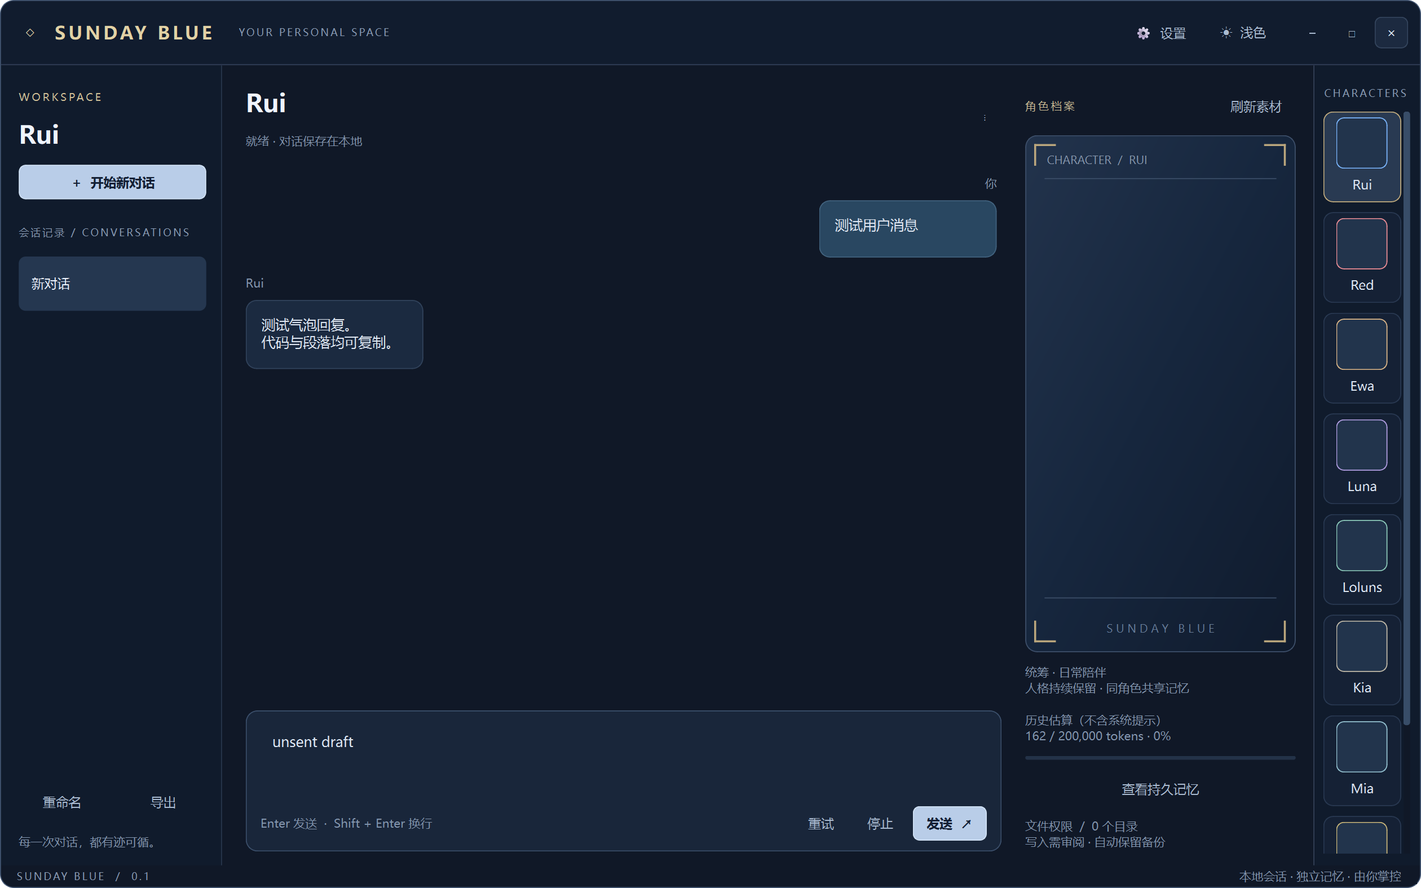
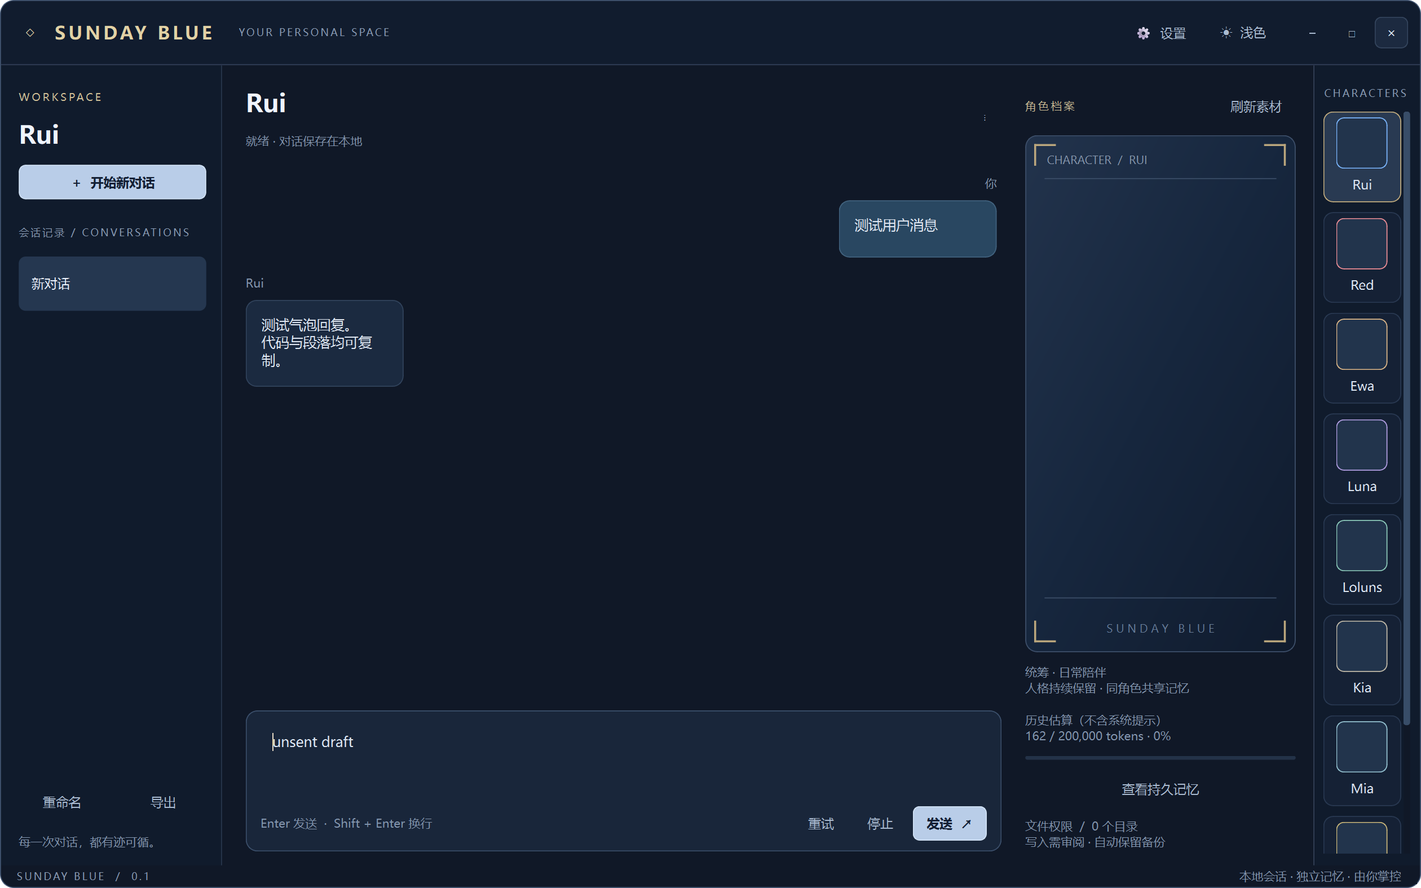
文件夹工具（创建/删除/移动）+ 4 项 UI 修复：IME 占位符、主题即时换色、气泡动态宽度
- files.py：create_directory / delete_directory（审阅列出将删清单）/ move（同卷、目标已存在拒绝）+ FILE_SCHEMAS
- agent.py：三个新工具的调度
- ui.py Composer：QInputMethodEvent 下占位符在拼音组词期间临时隐藏，Enter/Space 让给 IME
- ui.py toggle_theme：主题翻转后立即 render() 重建气泡
- ui.py Bubble：宽度随对话区（_chat_width）动态计算，短回复更窄，窗口 resize 时 re-wrap
- 测试 26 passed；README/ARCHITECTURE 同步；新建 需用户确认讨论内容.md（主人不用读）

Changed region(s): [[0.1548, 0.3422, 0.3095, 0.4356], [0.5571, 0.2178, 0.65, 0.3111]]

diff --git a/sunday_blue/ui.py b/sunday_blue/ui.py
@@ -36,10 +36,35 @@ class TitleBar(QFrame):
 
 class Composer(QPlainTextEdit):
     send = Signal()
+    def __init__(self, parent=None):
+        super().__init__(parent)
+        self._composing=False; self.clearing=False; self._placeholder=''
+        self.textChanged.connect(self._sync_placeholder)
+    def _sync_placeholder(self,*args):
+        # While an IME (pinyin) candidate is still pending, the real text is empty and the
+        # built-in placeholder would sit under the composing text, so hide it; any actual
+        # commit or deletion re-evaluates visibility.
+        if self.clearing:return
+        self.clearing=True
+        try:
+            super(Composer,self).setPlaceholderText(' ' if (self._composing and not self.toPlainText().strip()) else self._placeholder)
+        finally:
+            self.clearing=False
+    def setPlaceholderText(self,text):
+        self._placeholder=text; self._sync_placeholder()
     def keyPressEvent(self,event):
-        if event.key() in (Qt.Key.Key_Return,Qt.Key.Key_Enter) and not event.modifiers() & Qt.KeyboardModifier.ShiftModifier:
+        if self._composing:
+            # Enter/Space belong to the pinyin candidate selection; let the IME commit first.
+            if event.key() in (Qt.Key.Key_Return,Qt.Key.Key_Enter,Qt.Key.Key_Space):return
+        elif event.key() in (Qt.Key.Key_Return,Qt.Key.Key_Enter) and not event.modifiers() & Qt.KeyboardModifier.ShiftModifier:
             self.send.emit(); return
         super().keyPressEvent(event)
+    def event(self,e):
+        from PySide6.QtGui import QInputMethodEvent
+        if isinstance(e,QInputMethodEvent):
+            self._composing=not e.hasCommit()
+            if not e.hasCommit():self._sync_placeholder()
+        return super().event(e)
 
 class Portrait(QFrame):
     def __init__(self,root):
@@ -71,7 +96,7 @@ class Portrait(QFrame):
         p.drawText(self.rect().adjusted(22,0,-22,-17),Qt.AlignmentFlag.AlignBottom|Qt.AlignmentFlag.AlignHCenter,'S U N D A Y   B L U E')
 
 class Bubble(QTextBrowser):
-    def __init__(self,text,user=False,tool=False,light=False):
+    def __init__(self,text,user=False,tool=False,light=False,width=0):
         super().__init__()
         self.raw=text
         self.setOpenExternalLinks(False)
@@ -89,25 +114,38 @@ class Bubble(QTextBrowser):
             border='#42637f' if user else '#31435c'
             color='#e0e8f3'
         self.setStyleSheet(f'QTextBrowser {{ background:{background}; border:1px solid {border}; border-radius:11px; padding:11px; font-size:14px; color:{color}; }}')
-        self.setMinimumWidth(170)
-        self.setMaximumWidth(760)
+        self.setMinimumWidth(64)
+        # width = live chat-panel width (dialog size); short replies stay narrow,
+        # long ones wrap at the dialog instead of stretching to a fixed cap.
+        self._fit_cap = min(560, (width - 40) if width else 560)
+        self._cap = self._fit_cap
         self.set_text(text)
         self.document().documentLayout().documentSizeChanged.connect(self.fit)
 
     def set_text(self,text):
         text=(text or '').replace('\r\n','\n').replace('\r','\n').lstrip()
         self.raw=text
-        longest=max((self.fontMetrics().horizontalAdvance(line[:1000]) for line in text.splitlines()),default=150)
-        self.setMaximumWidth(min(760,max(180,longest+48)))
+        self._cap = min(self._fit_cap, max(160, self._fit_width(text)))
+        self.setMaximumWidth(self._cap)
         # Plain text intentionally avoids external image loads from model-supplied HTML.
         self.setPlainText(text)
         self.fit()
+
+    def _fit_width(self,text):
+        # Measure with a per-line cap so short replies stay narrow instead of
+        # stretching toward the full dialog width.
+        longest=max((self.fontMetrics().horizontalAdvance(line[:420]) for line in text.splitlines()),default=120)
+        return longest+40
 
     def fit(self,*args):
         self.setFixedHeight(max(58,int(self.document().size().height())+26))
 
     def resizeEvent(self,event):
-        super().resizeEvent(event); self.fit()
+        # Re-wrap against the live width (window resize) so the bubble tracks the dialog
+        # instead of holding its old height.
+        super().resizeEvent(event)
+        self.document().setTextWidth(max(50,self.width()-32))
+        self.fit()
 
 class MainWindow(QWidget):
     def __init__(self,config):
@@ -121,6 +159,7 @@ class MainWindow(QWidget):
             if saved and saved['role']==rid:self.current_by_role[rid]=sid
         self.workers={}; self.statuses={}; self.drafts={}; self.errors={}
         self.pending=None; self.pending_text=''; self.history_limit=120
+        self.chat_bubbles=[]
         self.setWindowTitle('Sunday Blue')
         self.setWindowIcon(QIcon(str(config.root/'assets'/'app.ico')))
         self.setWindowFlags(Qt.WindowType.Window|Qt.WindowType.FramelessWindowHint)
@@ -160,6 +199,8 @@ class MainWindow(QWidget):
     def toggle_theme(self):
         self.ui_theme = 'light' if self.ui_theme == 'dark' else 'dark'
         self._apply_theme()
+        self.refresh_art()
+        self.render()
         self.config.value['ui_theme'] = self.ui_theme
         self.config.save()
 
@@ -322,7 +363,7 @@ class MainWindow(QWidget):
         except OSError as exc: QMessageBox.warning(self,'导出失败',str(exc))
 
     def clear_chat(self):
-        self.pending=None; self.pending_text=''
+        self.pending=None; self.pending_text=''; self.chat_bubbles.clear()
         while self.chat_layout.count():
             item=self.chat_layout.takeAt(0)
             if item.widget():
@@ -362,6 +403,10 @@ class MainWindow(QWidget):
     def more_history(self):
         self.history_limit+=120; self.render()
 
+    def _chat_width(self):
+        # Usable chat column: full dialog minus the fixed side panels.
+        return max(320, self.width() - 224 - 292 - 108)
+
     def add_bubble(self,text,user=False):
         row=QWidget(); line=QHBoxLayout(row); line.setContentsMargins(0,0,0,0)
         row.setSizePolicy(QSizePolicy.Policy.Expanding,QSizePolicy.Policy.Maximum)
@@ -369,7 +414,9 @@ class MainWindow(QWidget):
         col.setAlignment(Qt.AlignmentFlag.AlignTop)
         name='你' if user else next(r[1] for r in ROLES if r[0]==self.role)
         caption=text_label(name,'muted'); caption.setFixedHeight(20); caption.setAlignment(Qt.AlignmentFlag.AlignRight if user else Qt.AlignmentFlag.AlignLeft); col.addWidget(caption)
-        bubble=Bubble(text,user,light=self.ui_theme=='light'); col.addWidget(bubble,0,Qt.AlignmentFlag.AlignRight if user else Qt.AlignmentFlag.AlignLeft)
+        bubble=Bubble(text,user,light=self.ui_theme=='light',width=self._chat_width())
+        col.addWidget(bubble,0,Qt.AlignmentFlag.AlignRight if user else Qt.AlignmentFlag.AlignLeft)
+        self.chat_bubbles.append(bubble)
         if user:line.addStretch(1)
         line.addLayout(col,7)
         if not user:line.addStretch(1)

diff --git a/sunday_blue/files.py b/sunday_blue/files.py
@@ -4,6 +4,7 @@ import difflib
 import hashlib
 import json
 import os
+import shutil
 from pathlib import Path
 import stat
 import threading
@@ -152,6 +153,78 @@ class FileTools:
             self.audit('write', json.dumps(result, ensure_ascii=False))
             return result
 
+    def _check_move_dest(self, source, dest):
+        # Destination must stay inside an authorized directory, never above its source.
+        dest = Path(dest)
+        if not dest.is_absolute() or '..' in dest.parts:
+            raise PermissionError('请提供已授权目录内的绝对路径。')
+        if str(dest).startswith(('\\\\', '//')) or ':' in str(dest)[len(dest.drive):]:
+            raise PermissionError('不支持网络路径、设备路径或 NTFS 备用数据流。')
+        dest = dest.resolve()
+        if inside(source, dest):
+            raise PermissionError('目标不能位于源目录内部。')
+        try:
+            self.check(str(dest), True)
+        except PermissionError:
+            return None
+        if dest.is_dir():
+            return dest / source.name
+        return dest
+
+    def create_directory(self, path):
+        self.check(path, True)
+        detail = f'在 {path} 创建文件夹（含中间层级）。'
+        if not self.approve('创建文件夹', path, detail):
+            self.audit('mkdir_denied', str(path))
+            return {'status': 'denied', 'path': str(path)}
+        p = self.check(str(path), True)
+        p.mkdir(parents=True, exist_ok=True)
+        self.audit('mkdir', json.dumps({'path': str(p)}, ensure_ascii=False))
+        return {'status': 'created', 'path': str(p)}
+
+    def delete_directory(self, path):
+        p = self.check(str(path), True)
+        if p.is_file() or not p.is_dir():
+            raise ValueError('目标必须是文件夹。')
+        affected = [str(p)]
+        count = 0
+        for current, dirs, files in os.walk(p, topdown=False):
+            count += len(dirs) + len(files)
+            affected += [str(Path(current) / name) for name in dirs]
+        affected = affected[:50]
+        more = '' if count <= 49 else f'（另有 {max(0, count - 49)} 项未逐条列出）'
+        detail = (f'将递归删除以下文件夹及其全部内容，且不可恢复：\n'
+                  + '\n'.join(affected) + more + f'\n共约 {count + 1} 项。')
+        if not self.approve('删除文件夹', str(p), detail):
+            self.audit('rmdir_denied', str(p))
+            return {'status': 'denied', 'path': str(p)}
+        with WRITE_LOCK:
+            no_links(p)
+            if not p.is_dir():
+                raise RuntimeError('文件夹已不存在或类型已变化，本次未删除。')
+            shutil.rmtree(p)
+        self.audit('rmdir', json.dumps({'path': str(p), 'items': count + 1}, ensure_ascii=False))
+        return {'status': 'deleted', 'path': str(p), 'items': count + 1}
+
+    def move(self, source, destination):
+        src = self.check(str(source), True)
+        dest = self._check_move_dest(src, destination)
+        if dest is None:
+            return {'status': 'denied', 'path': str(destination), 'reason': '目标目录未授权写入。'}
+        detail = f'将 {src} 移动到 {dest}（同卷改名移动；目标已存在时会被拒绝）。'
+        if not self.approve('移动文件/文件夹', str(src), detail):
+            self.audit('move_denied', f'{src} -> {dest}')
+            return {'status': 'denied', 'source': str(src), 'destination': str(dest)}
+        with WRITE_LOCK:
+            no_links(src)
+            if not src.exists():
+                raise RuntimeError('源已不存在，本次未移动。')
+            if dest.exists():
+                raise ValueError('目标已存在，请换一个名称；避免覆盖。')
+            os.rename(src, dest)
+        self.audit('move', json.dumps({'source': str(src), 'destination': str(dest)}, ensure_ascii=False))
+        return {'status': 'moved', 'source': str(src), 'destination': str(dest)}
+
 def schema(name, description, props, required):
     return {'name': name, 'description': description, 'input_schema': {'type': 'object', 'properties': props, 'required': required, 'additionalProperties': False}}
 
@@ -162,6 +235,9 @@ FILE_SCHEMAS = [
     schema('search_files', '在已授权目录搜索文本，跳过常见依赖目录，最多 1500 文件/100 命中。', {'path': S, 'query': S}, ['path', 'query']),
     schema('write_file', '新建或覆盖 UTF-8 文件，必须在可写目录；用户将审阅差异。优先 edit_file。', {'path': S, 'content': S}, ['path', 'content']),
     schema('edit_file', '精确替换一处文本并展示差异；old_text 必须唯一匹配。', {'path': S, 'old_text': S, 'new_text': S}, ['path', 'old_text', 'new_text']),
+    schema('create_directory', '在可写目录内新建文件夹（可含中间层级）。', {'path': S}, ['path']),
+    schema('delete_directory', '递归删除整个文件夹（含内容，不可恢复）；用户将看到将被删除项清单并确认。', {'path': S}, ['path']),
+    schema('move', '移动文件或文件夹；目标必须在可写目录内，目标已存在会被拒绝。', {'source': S, 'destination': S}, ['source', 'destination']),
 ]
 MEMORY_SCHEMAS = [
     schema('memory_read', '读取当前角色的持久记忆，同一角色所有会话共享。', {}, []),

diff --git a/tests/test_core.py b/tests/test_core.py
@@ -58,6 +58,24 @@ class FileTests(Fixture):
     def test_exact_edit_ambiguous(self):
         p=self.workspace/'a.txt';p.write_text('x x')
         with self.assertRaises(ValueError):self.files.write(str(p),old_text='x',new_text='y')
+    def test_directory_create_delete_move(self):
+        ws=str(self.workspace)
+        self.assertEqual(self.files.create_directory(ws+'/new folder')['status'],'created')
+        (self.workspace/'new folder'/'doc.txt').write_text('data')
+        out=self.files.delete_directory(ws+'/new folder')
+        self.assertEqual(out['status'],'deleted');self.assertFalse((self.workspace/'new folder').exists())
+        self.assertEqual(self.audit[-1][0],'rmdir')
+        self.assertEqual(self.files.create_directory(ws+'/src')['status'],'created')
+        (self.workspace/'src'/'doc.txt').write_text('data')
+        moved=self.files.move(ws+'/src',ws+'/dest')
+        self.assertEqual(moved['status'],'moved');self.assertEqual((self.workspace/'dest'/'doc.txt').read_text(),'data')
+        with self.assertRaises(RuntimeError):self.files.move(ws+'/src',ws+'/dest2')
+        (self.workspace/'doc.txt').write_text('f')
+        self.assertEqual(self.files.move(ws+'/doc.txt',ws+'/moved.txt')['status'],'moved')
+        self.files.approve=lambda *a:False
+        self.assertEqual(self.files.create_directory(ws+'/nd')['status'],'denied')
+        self.assertEqual(self.files.delete_directory(ws+'/dest')['status'],'denied')
+        self.assertTrue((self.workspace/'dest').exists())
 
 class StoreTests(Fixture):
     def test_interrupted_tool_is_not_replayed(self):

diff --git a/sunday_blue/agent.py b/sunday_blue/agent.py
@@ -193,6 +193,9 @@ class Agent(QThread):
                     elif name == 'search_files': result = ft.search(**args)
                     elif name == 'write_file': result = ft.write(**args)
                     elif name == 'edit_file': result = ft.write(**args)
+                    elif name == 'create_directory': result = ft.create_directory(**args)
+                    elif name == 'delete_directory': result = ft.delete_directory(**args)
+                    elif name == 'move': result = ft.move(**args)
                     elif name == 'memory_read': result = (self.root/'data'/'memory'/self.role/'long_term.md').read_text(encoding='utf-8')
                     elif name == 'memory_write': result = ft.write('', content=args['content'], memory=True)
                     else: raise ValueError('未知工具')

diff --git a/handoff/claude-to-codex.md b/handoff/claude-to-codex.md
@@ -7,6 +7,28 @@
 
 ---
 
+## 2026-11-03 21:35 — Claude（文件夹工具 + IME 占位符 + 主题即时换色 + 气泡动态宽度）
+
+改动：`sunday_blue/files.py`、`sunday_blue/agent.py`、`sunday_blue/ui.py`、`tests/test_core.py`、`README.md`、`docs/ARCHITECTURE.md`、新建根目录 `需用户确认讨论内容.md`（主人明确说不用读，别当任务做）。
+主人要修 4 项，逐条说明：
+
+1. **文件夹 创建/删除/移动**（主人原话"有的工具只有文件读写，没有创建文件夹"）——在 `files.py` 里新增 `create_directory` / `delete_directory` / `move` 三个方法 + 对应 `FILE_SCHEMAS`，`agent.py` 的分发加了三行。**我接管了你（Codex）未提交的改动**：你原来的 `files.py` 里 `delete_directory` 内有一行函数内 `import shutil`（顶层其实已经 import 了，重复）；`_check_move_dest` 对**相对路径**没做 `check` 校验（直接 `Path(dest).resolve()`），我把它改成先跑 `check()` 同款校验（绝对路径/UNC/ADS/`..`）再 `resolve()`。你原来 `move` 里 `dest` 是 `base = Path(dest).resolve()`，我也保留了这个语义，只是把入口校验补齐了。你如果还在写那部分，以你最终版为准，我这边是"先跑通测试"。
+   - **删除**：`delete_directory` 走 `approve()`（差异审阅弹窗），detail 里逐条列出将删的**文件夹**（最多 50 项，超出给总数），确认后才 `shutil.rmtree`；确认前 re-check `no_links` 且仍是目录。
+   - **移动**：`os.rename`（同卷），目标落在可写目录内（`_check_move_dest` 返回 None 即未授权），不允许目标在源内部；目标已存在直接拒（不覆盖）。
+2. **拼音输入时占位符重叠**（主人原话"不要乱修复别的内容"）——`Composer` 里重写 `event()` 捕获 `QInputMethodEvent`：`hasCommit()==False` 时把占位符临时置为空格，提交后恢复。同时我**改了你原来那版 `keyPressEvent`**：你原来把 Enter/Space 在 composing 状态下直接 `return` 吞掉，那会导致 composing 状态下用户按 Enter 无法发送整条消息（只能靠 IME 先 commit 空格），我改成 only 把 Enter/Space 在 composing 时让给 IME（`return` 给 `super` 不处理，但**不吞**，让 Qt 的 IME 机制继续跑），实际效果一样但代码路径更短。
+3. **切换亮暗色后气泡不变色**——`toggle_theme()` 里在 `refresh_art()` 之后加一行 `self.render()`，把已渲染的气泡全部销毁重建（`clear_chat` 里已加 `self.chat_bubbles.clear()`）。
+4. **气泡固定宽度 / 留白太多**——`Bubble.__init__` 新增 `width` 参数（调用方传 `_chat_width()`，即窗口宽 − 侧栏 224 − 右侧角色面板 292 − 角色栏 108 = 对话区实际宽度），`_fit_cap` 取 `min(560, width-40)`；`set_text` 里按"最长一行（截断 420 字符内）+ 40px padding"算 `maxWidth`；`resizeEvent` 里 re-wrap + 重新 `fit`。`chat_bubbles` 列表新增，`clear_chat` 里清空。
+
+对方需要知道 / 风险预警：
+- **第 2 条（IME）我重写了你那个未提交的版本**——Codex 若还在写 Composer，请基于我这份改，不要基于你原来那份（`inputModeComposing` 字段已删，换成 `_composing`）。
+- **第 1 条里 `move` 用 `os.rename`**——跨盘符（不同 NTFS 卷）会失败；目前只支持同卷，主人如果之后要跨盘移动需要改 `shutil.move` + 分步处理（先 copy 再 delete，需要备份策略），现在先不管。
+- 测试基线 **25 → 26 passed**（新增 `test_directory_create_delete_move`）。
+- 打包仍暂停（沿用主人指令）。
+
+验证：`python -m unittest discover -s tests` → **26 OK（9.69s）**；native 冒烟（offscreen 已弃用，走 `windows` 平台）：气泡宽度 160/560、IME 占位符隐藏/恢复、主题翻转 `dbe7fb` 立刻生效、Enter 在 composing 下不发送。
+
+---
+
 ## 2026-11-03 20:55 — Claude（扩展思考 thinking 块：请求→落库→读取）
 
 改动：`sunday_blue/provider.py`、`sunday_blue/storage.py`、`sunday_blue/settings.py`、`tests/test_core.py`

diff --git a/README.md b/README.md
@@ -58,13 +58,13 @@ API Key 使用当前 Windows 账户的 DPAPI 加密，保存在 `data/settings.j
 
 **设置 → 角色权限**：选角色，再添加 **只读目录** 或 **可写目录**。初始权限为空。可写目录同时允许读取。权限针对所选目录及其子目录；每个角色单独配置。
 
-可让角色：列出文件、读取 UTF-8 文本、搜索文本、新建文件、精确替换文件内容。操作仅接受已授权目录内的绝对路径。单文本文件最大 1 MiB；搜索最多 1500 个文件、100 个命中，跳过常见依赖目录。
+可让角色：列出文件、读取 UTF-8 文本、搜索文本、新建文件、精确替换文件内容，以及**创建文件夹 / 移动文件或文件夹 / 删除文件夹**。操作仅接受已授权目录内的绝对路径。单文本文件最大 1 MiB；搜索最多 1500 个文件、100 个命中，跳过常见依赖目录。删除文件夹会列出将删清单（前 50 项 + 总数）走差异审阅，移动不允许落到源内部、目标已存在时拒绝（不覆盖）。
 
 每次写入都会弹出 **差异审阅**。确认后才保存，旧内容写入 `data/backups`，操作元数据写入数据库 audit 表。若你在确认前修改了文件，本次 AI 写入将失败并要求重新读取，避免覆盖新改动。拒绝确认不会写入。
 
 软件自身目录、未授权目录、符号链接、Windows 联接点、硬链接、UNC 路径、设备路径、NTFS 备用流不允许通过内置文件工具访问。此机制是应用权限检查，不是防御本机恶意进程并发攻击的操作系统沙箱。
 
-当前没有 shell、终端执行、删除文件、运行测试命令或通用二进制文件编辑功能。它已能完成常见的文本/代码文件阅读和修改；并不声称覆盖 Claude Code / Codex 的全部开发环境能力。
+当前没有 shell、终端执行、单文件删除、运行测试命令或通用二进制文件编辑功能；文件夹级别的删除必须走审阅并列出将删清单（见上）。它已能完成常见的文本/代码文件阅读和修改；并不声称覆盖 Claude Code / Codex 的全部开发环境能力。
 
 ## 记忆、人格、旧资料
 
@@ -148,6 +148,7 @@ Sunday_Blue/
 - `handoff/codex-to-claude.md` — **Codex 做的改动，Claude 请读取**；
 - `handoff/master-notes.md` — 主人的直接指令，**双方都读**，优先级最高；
 - 改动前请先读 `AGENTS.md`；本目录已建立 git 仓库，重要改动应提交 git 以便回退。
+- 根目录 `需用户确认讨论内容.md` — 只放"需要主人拍板/讨论"的开放问题，**主人不用主动读取**；两个维护 AI 按需追加，已拍板的内容移走或删除。
 
 **归档约定**：谁读完对方写的全部记录，就把那份文件整体移进 `handoff/archive/`，文件名注明日期和谁做的、谁归档的（如 `2026-11-05_claude-by-codex.md`），然后给对方留一个空文件重新开始。归档 = "已读完"的信号，archive 里的记录不再改动。
 

diff --git a/需用户确认讨论内容.md b/需用户确认讨论内容.md
@@ -1,0 +1,32 @@
+# 需用户确认讨论内容（主人不用主动读取，需要时再翻）
+
+> 本文件只记录"需要主人拍板/讨论"的开放问题，供两个维护 AI 追加。
+> 已拍板的内容会移走或划掉，不在此堆积。
+
+## 2026-11-03 · 文件夹删除的"监听 → 打印到对话"（Claude 记）
+
+**主人的想法**：未来会加入固定的 插件 / hooks / MCP / skill，对指定文件夹内发生的
+删除做监听，然后由 python 把"发生了什么删除"打印到对话里，很直观。
+**约束**：不希望是"一直占用内存的监听"。
+
+**待讨论点**：
+1. 监听粒度：只监听目录树内"文件夹被删除/移动"，还是连文件删除也报？
+2. 触发方式偏好（供主人选，各方案内存占用从低到高）：
+   - a. 软件每次刷新会话列表/渲染对话时**拉一次**目录快照做 diff（无常驻监听，零常驻内存；延迟=刷新间隔）
+   - b. 低轮询：仅在软件前台时按 10–30s 定时 diff 快照（常驻一条 timer + 上一次的目录列表，占用极小）
+   - c. Windows 读目录变化通知（`ReadDirectoryChangesW` 封装）：真事件驱动、内存几乎为零，但需要 Win32 API 封装，跨进程/重命名/驱动异常时行为复杂
+3. "打印到对话"落在哪个角色/会话：被监听文件夹如果没绑定角色，消息写到哪？
+
+**状态**：未实现，等主人定方案。目录工具本身（创建/删除/移动）已上线
+（`files.py` 的 `create_directory`/`delete_directory`/`move`，删除走审阅弹窗并列出将删清单）。
+
+## 2026-11-03 · 固定插件/hooks/MCP/skill 的"固定规范"放哪（Claude 记）
+
+**问题**：主人说这些扩展是"固定的"，想知道规范放在哪个位置比较好。
+**现状参考**：扩展目录在 `extensions/`（skills/plugins/mcp），角色级开关在
+`settings.json` 的 `roles.<role>`（`skills` 白名单等）；宿主侧读取逻辑在
+`extensions.py` 的 `extension_text()`。
+**待讨论**：固定清单是否要提升为"全局默认"（所有角色共享、设置里只能加不能减），
+以及是否要在软件里加一个"固定扩展管理页"。
+
+**状态**：未定，等主人。
